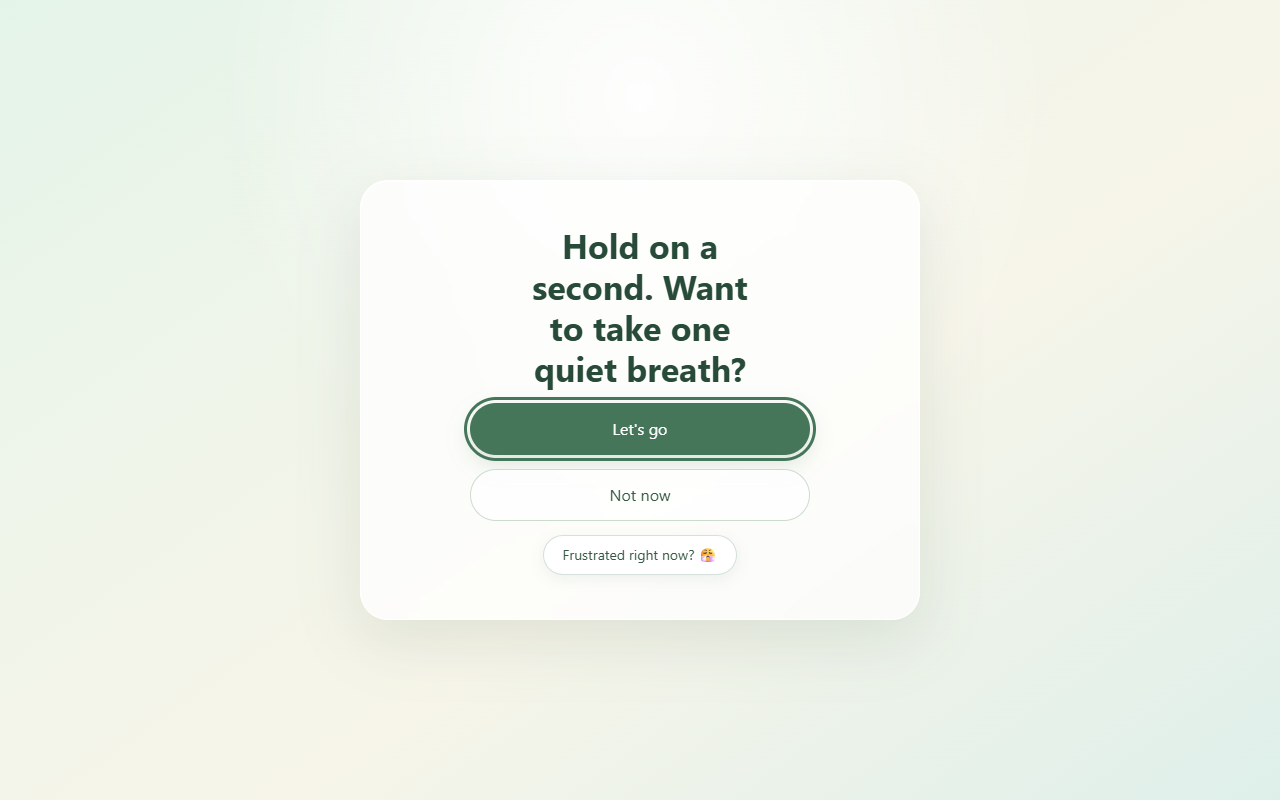
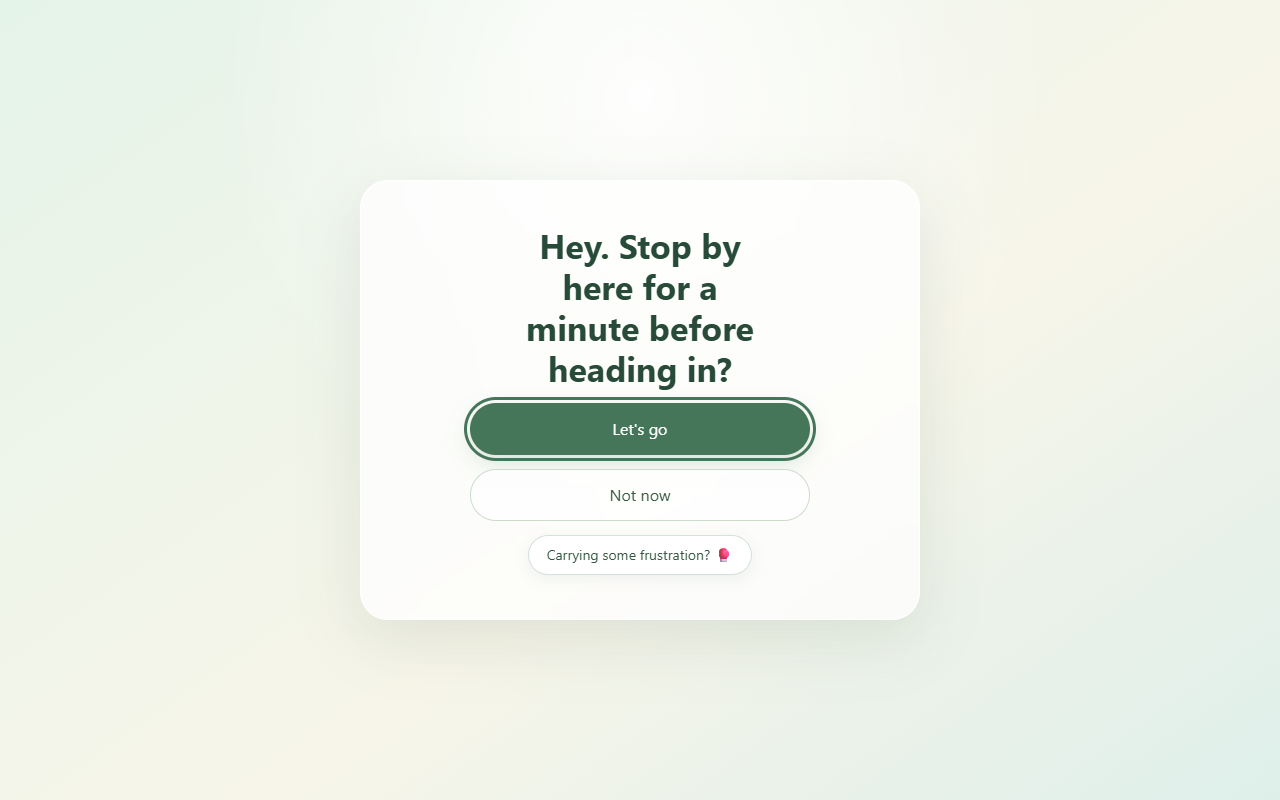
prepare Intermission manual release
Polish the project README, document the GitHub Release install path, add current availability to the landing page, and fix the store fact screenshot to show three rounds.

Changed region(s): [[0.4062, 0.2812, 0.5938, 0.5], [0.4062, 0.6875, 0.5938, 0.7188]]

diff --git a/docs/index.html b/docs/index.html
@@ -41,6 +41,11 @@
           <li>Keeps settings and counters in Chrome. No accounts, analytics, or developer servers.</li>
         </ul>
       </div>
+      <div class="card">
+        <p><strong>Availability</strong></p>
+        <p>Intermission is not listed in the Chrome Web Store yet. A versioned manual-install package will be published on GitHub Releases when it is ready. Once available, install it in Chrome or Brave using the browser's “Load unpacked” option.</p>
+        <p><a href="https://github.com/asef-mahir/intermission/releases">Check GitHub Releases</a></p>
+      </div>
       <p style="margin-top: 26px;"><a href="./privacy.html">Privacy policy</a> · <a href="https://github.com/asef-mahir/intermission">Source code</a></p>
       <footer>Intermission · Version 1.0.0</footer>
     </main>

diff --git a/store/capture/capture.js b/store/capture/capture.js
@@ -277,6 +277,11 @@ async function main() {
     await sleep(4200);
     await capture(pageSession, "03-breathing.png");
 
+    // Let three six-second cycles finish so the fact is tied to 3, not 0.
+    // The breathing flow itself is unchanged; this only picks a better
+    // marketing fact for the screenshot.
+    await sleep(14000);
+
     await clickButton(pageSession, "Stop when ready");
     await sleep(1400);
     await capture(pageSession, "04-fact.png");

diff --git a/README.md b/README.md
@@ -1,93 +1,155 @@
-# Intermission
+<div align="center">
+  <img src="store/assets/tile-440x280.png" alt="Intermission — a thoughtful pause before the sites you choose" width="440">
 
-A small Chrome extension that offers a short intermission before the sites you choose.
+  <h1>Intermission</h1>
+  <p><strong>A thoughtful pause before the websites you choose.</strong></p>
+  <p>A Manifest V3 browser extension that helps turn an automatic click into a more intentional choice.</p>
+  <p><strong>English · বাংলা (Bangla) · Chrome · Brave</strong></p>
+</div>
 
-## What it does
+> **Availability:** Intermission is not listed in the Chrome Web Store yet. The versioned manual-install package will be published on [GitHub Releases](https://github.com/asef-mahir/intermission/releases) after the v1.0.0 release is created. Until the package appears there, it is not ready for public download.
 
-- Shows a full-screen pause on full page loads and refreshes of enabled sites.
-- Offers a greeting, optional breathing, a fact reveal, and a way back to work.
-- Keeps the existing full-screen check-in after repeated “Not now” choices.
-- Offers an optional active-time check-in after continuous use.
-- Supports English and Bangla copy, defaulting to the browser language on a new install.
-- Shows a first-run disclosure before any site access and remembers the consent version.
-- Uses no accounts, analytics, remote code, or developer servers.
+---
 
-## Locked behavior
+## What Intermission does
 
-- **Breathing:** 5 minutes, count-up timer, and “Do it again.”
-- **Check-in:** the current full-screen check-in is unchanged.
-- **Navigation:** full page loads and refreshes only. SPA/in-page navigation is not intercepted.
+Intermission shows a brief, full-screen pause before full page loads on sites you choose. Take a breath, read an interesting fact, use the vent space, or head back to what you meant to do.
 
-## Install for development
+- **Your sites, your choice.** Pick the domains where you want a pause.
+- **A little room to reset.** Optional five-minute breathing with a count-up timer, an interesting fact, and a clear return path.
+- **Gentle check-ins.** The current full-screen check-in after repeated “Not now” choices, plus an optional active-time check-in.
+- **English and Bangla.** New installs follow the browser language when it is Bangla and otherwise default to English. You can change language in settings.
+- **User-controlled access.** Approve access for selected sites; turn a site off or remove it to revoke that site's access.
+- **No accounts or analytics.** No ads, remote code, or developer-operated data server.
 
-1. Open `chrome://extensions` and enable **Developer mode**.
-2. Choose **Load unpacked** and select this folder (or `dist/unpacked`).
-3. Open the options page, choose your sites, and allow access for those sites.
+## Preview
 
-The extension requests host access only for the domains you enable. No host access is granted at install time. Turning a site off or removing it revokes that site's access; turning it back on asks again.
+<p align="center">
+  <img src="store/screenshots/01-greeting.png" alt="Intermission greeting before a selected site" width="720">
+</p>
 
-## Build
+Explore more captures in [`store/screenshots/`](store/screenshots/).
 
-```powershell
+## Install in Chrome or Brave
+
+Until the Chrome Web Store listing is available, install Intermission from its versioned GitHub Release package. The package is not published yet; once available, download `intermission-1.0.0.zip` from [GitHub Releases](https://github.com/asef-mahir/intermission/releases) and extract it.
+
+1. Open your browser's extensions page:
+
+   | Browser | Extensions page |
+   |---|---|
+   | Google Chrome | [`chrome://extensions`](chrome://extensions) |
+   | Brave | [`brave://extensions`](brave://extensions) |
+
+2. Turn on **Developer mode** and select **Load unpacked**.
+3. Choose the extracted package folder—the folder where `manifest.json` is directly visible (for example, `…/intermission-1.0.0/manifest.json`). Choose the folder, not the ZIP file or its parent folder.
+4. Open Intermission's popup, select **Settings**, and review the first-run disclosure.
+5. Choose your language and sites. Grant host access when the browser asks.
+6. Open or refresh a selected site to see Intermission.
+
+The manual installation uses the browser's built-in extension manager. To update, either replace the files in the same folder and select **Reload** on the extensions page, or remove the old unpacked copy and load the newly downloaded release folder. Manual installs do not update automatically.
+
+## Browser compatibility
+
+| Browser | Compatibility |
+|---|---|
+| Google Chrome | Primary target; tested in an isolated Chrome profile. |
+| Brave | Tested by loading the extracted extension package with **Load unpacked**; confirmed working. |
+| Other Chromium-based browsers | May be compatible; not yet tested in this project. |
+| Firefox | Not currently supported. |
+
+## Behavior by design
+
+- Intermission runs on **full page loads and refreshes** of enabled sites. It does not intercept SPA or other in-page navigation.
+- Breathing remains five minutes, uses a count-up timer, and offers “Do it again.”
+- The existing full-screen check-in is retained.
+- Turning a site off or removing it revokes that site's host access. Turning it on again asks for access again.
+- Turning the whole extension off keeps access for configured sites, so you can resume without approving each site again.
+- Incognito/private windows are not supported in version 1.0.
+
+## Privacy and permissions
+
+Intermission keeps its data in Chrome's built-in storage and does not send it to the developer.
+
+- **Settings**—including the chosen sites, language, and check-in preferences—are saved in `chrome.storage.sync`. Chrome may sync them according to your Chrome sync settings.
+- **Small local records**—such as cooldown timestamps, daily check-in counts, active seconds, and the first-run disclosure consent version—are saved in `chrome.storage.local` on your device.
+- Intermission reads the current hostname to match it against your chosen sites. It does not store a list of visited pages, full URLs, page titles, page content, search terms, or vent text.
+- For the optional active-time check-in, it counts active seconds on a selected site. It does not record keystrokes, clicks, mouse positions, or an interaction timeline.
+- No accounts, analytics, advertising, or developer servers are used.
+
+| Permission | Why it is needed |
+|---|---|
+| `storage` | Save settings and small counters. |
+| `scripting` | Register the pause script and inject it into tabs that are already open when needed. |
+| Optional host access | Show the pause on sites you choose and enable. |
+
+Read the full [privacy policy](https://asef-mahir.github.io/intermission/privacy.html).
+
+## Built for a considerate pause
+
+- **Manifest V3 service worker** manages content-script registration and cleanup.
+- **Optional, user-approved host permissions** keep site access tied to the sites a person enables.
+- **Accessible overlay** uses keyboard focus management and separates the pause from the underlying page while it is open.
+- **Fail-open behavior** is designed to reveal the page if the pause script cannot finish starting.
+- **English and Bangla content banks** keep interface copy and fact content organized by language.
+- **Dependency-free packaging checks** validate the extension files and produce a reproducible upload ZIP.
+
+## Build and publish the package
+
+Building is for contributors; it is not required to install a published release package. It requires Node.js 18 or later and has no npm dependencies.
+
+```sh
 node scripts/build.js
 ```
 
-This validates the runtime allowlist and writes:
+The build creates:
 
-- `dist/unpacked/` — a clean unpacked build.
-- `dist/intermission-1.0.0.zip` — the Chrome Web Store upload.
+- `dist/unpacked/` — a clean folder for **Load unpacked**.
+- `dist/intermission-1.0.0.zip` — the versioned extension package for distribution.
 
-Validate without writing:
+To publish the manual-install package after the final source commit is pushed:
 
-```powershell
+1. In GitHub, open **Releases → Draft a new release** and create tag `v1.0.0` from the finalized `main` branch.
+2. Attach `dist/intermission-1.0.0.zip` as the release asset and publish the release.
+3. Keep `dist/` out of git; the ZIP belongs as a versioned release asset, not a source file.
+
+The GitHub Release makes the package easy to find and keeps it tied to a version. Users still need to extract it and select the package folder with **Load unpacked**. Automatic browser installation and updates are available only if Intermission is later published in a browser extension store.
+
+Validate without creating build outputs:
+
+```sh
 node scripts/build.js --check
 ```
 
-The build script checks manifest references, JSON, icon dimensions, content-bank key parity, remote-code patterns, absolute local paths, and the ZIP contents. It has no npm dependencies.
+The validation checks the manifest and referenced files, JSON, icon dimensions, English/Bangla content parity, remote-code patterns, and ZIP contents.
 
-## Permissions
-
-| Permission | Why |
-|---|---|
-| `storage` | Save settings, language, enabled domains, and local counters. |
-| `scripting` | Register the pause content script and inject it into already-open tabs. |
-| Optional `http://*/*`, `https://*/*` | The user chooses arbitrary sites; access is requested only for enabled domains. |
-
-## Privacy
-
-- Settings and enabled domains are stored in `chrome.storage.sync`; Chrome may sync them according to the user’s Chrome sync settings.
-- Cooldowns, daily counters, voice history, active-time totals, and the consent version are stored in `chrome.storage.local`.
-- Page content and vent text are not stored or transmitted.
-- The extension does not send browsing data to the developer, use analytics, or sell data.
-- The full policy is at <https://asef-mahir.github.io/intermission/privacy.html>. The options page shows the disclosure before any site access and stores `onboarding_consent_version` in local storage.
-- Incognito is not supported in `1.0`.
-
-## Known limitations
-
-- SPA/in-page navigation is not intercepted.
-- Chrome internal pages and the Chrome Web Store cannot be paused.
-- If host access is revoked while a pause is open, cleanup is best-effort; the 8-second CSS fail-open reveals the page.
-- Turning the whole extension off keeps access for the configured sites so it can be resumed without re-approving each site. Removing or turning off a site does revoke that site's access.
-- Real-site strict-CSP spot checks (GitHub, X, YouTube, Google) are still recommended before submission.
-
-## Project layout
+## Project structure
 
 | Path | Purpose |
 |---|---|
-| `manifest.json` | Manifest V3 entry point. |
-| `background.js` | Content-script registration, open-tab injection, cleanup, copy loading. |
-| `storage.js` | Settings defaults, normalization, and domain parsing. |
-| `interceptor.js` | Overlay, greeting, breathing, fact reveal, vent room, check-ins. |
-| `interceptor.css` | Declarative page hide and CSS-only fail-open. |
-| `popup.html`, `options.html` | Extension popup and settings page. |
-| `content/en.json`, `content/bn.json` | User-facing copy. |
-| `scripts/build.js` | Dependency-free packaging and validation. |
-| `docs/privacy.html`, `docs/index.html` | Public policy and landing page for GitHub Pages. |
-| `store/listing.md` | Store copy, justifications, and submission checklist. |
-| `store/screenshots/`, `store/assets/` | Store images. |
-| `docs/release-readiness-plan.md` | Release issues, decisions, and verification log. |
-| `CHANGELOG.md` | Release notes. |
+| `manifest.json` | Manifest V3 configuration and extension entry points. |
+| `background.js` | Content-script registration, open-tab injection, permission lifecycle, and cleanup. |
+| `storage.js` | Settings defaults, normalization, and domain helpers. |
+| `interceptor.js` | Pause overlay, breathing, facts, check-ins, and return paths. |
+| `interceptor.css` | Page-cover styling and CSS fail-open behavior. |
+| `popup.*`, `options.*` | Toolbar popup, settings, and first-run disclosure. |
+| `content/en.json`, `content/bn.json` | English and Bangla interface copy and fact banks. |
+| `scripts/build.js` | Dependency-free validation and packaging. |
+| `docs/` | Project landing page and privacy policy. |
+| `store/` | Store listing materials, screenshots, and capture tooling. |
 
 ## Verification
 
-The current `1.0.0` build was tested in an isolated Chrome profile for the greeting, breathing, fact reveal, check-in, open-tab injection, focus trap/restore, language switching, disable/removal cleanup, fail-open timing, return-to-work paths, strict-CSP rendering, first-run disclosure, browser-language default, per-site access revocation, and clean-profile ZIP install. See `docs/release-readiness-plan.md` for the detailed log.
+The 1.0.0 build has been tested in an isolated Chrome profile for the core pause flow, breathing, fact reveal, check-ins, language switching, keyboard focus handling, already-open tab injection, permission cleanup, fail-open behavior, strict-CSP rendering, and clean-profile package installation. The unpacked package has also been manually loaded and confirmed working in Brave.
+
+## Project links
+
+- [Project home](https://asef-mahir.github.io/intermission/)
+- [Privacy policy](https://asef-mahir.github.io/intermission/privacy.html)
+- [Issues and feature requests](https://github.com/asef-mahir/intermission/issues)
+- [GitHub Releases](https://github.com/asef-mahir/intermission/releases) — manual-install package will appear here when published
+- **Chrome Web Store:** not listed yet
+
+---
+
+<p align="center"><sub>Intermission 1.0.0 · A little room for a more intentional next click.</sub></p>

diff --git a/docs/release-readiness-plan.md b/docs/release-readiness-plan.md
@@ -1,6 +1,6 @@
 # Release Issue List
 
-**Status:** Implementation complete. GitHub Pages is live at the new repository URL; only the optional real-site spot checks and the Chrome Web Store submission remain.
+**Status:** Extension implementation, GitHub Pages, README, and store assets are prepared. Chrome Web Store submission is paused; the next distribution step is a versioned manual-install ZIP on GitHub Releases.
 **Target:** Chrome Web Store, public release.
 **Product name:** **Intermission**.
 **Current build:** `1.0.0` (working tree), packaged as `dist/intermission-1.0.0.zip`.
@@ -423,11 +423,12 @@ All decisions are resolved:
 - **D6** host access is revoked on per-site off/remove; implemented.
 - **REL-06**, **REL-07**, and **REL-11** are implemented.
 
[2 lines of base64/hex data omitted]
 
-Remaining external actions:
+Current distribution plan:
 
-1. Run the optional real-site spot checks (GitHub, X, YouTube, Google).
-2. Upload the ZIP and listing in the Chrome Web Store dashboard and submit for review.
+1. Create the `v1.0.0` GitHub Release and attach `dist/intermission-1.0.0.zip`. This provides a versioned manual-install package; users still need to use **Load unpacked**, and updates are manual.
+2. The Chrome Web Store submission is paused. Revisit it later if the owner decides the developer registration fee is worthwhile; no store submission has been made.
+3. Real-site spot checks (GitHub, X, YouTube, Google) remain optional before a future store submission.
 
 The locked behavior in section 6 remains unchanged.

diff --git a/CHANGELOG.md b/CHANGELOG.md
@@ -2,7 +2,7 @@
 
 ## 1.0.0 — 2026-11-24
 
-First public release as **Intermission**.
+Initial `1.0.0` package prepared as **Intermission**. The Chrome Web Store listing is not published yet.
 
 - Renamed all user-facing “Focus Friend” references to “Intermission.”
 - Added a short intermission description and bumped the manifest to `1.0.0`.
